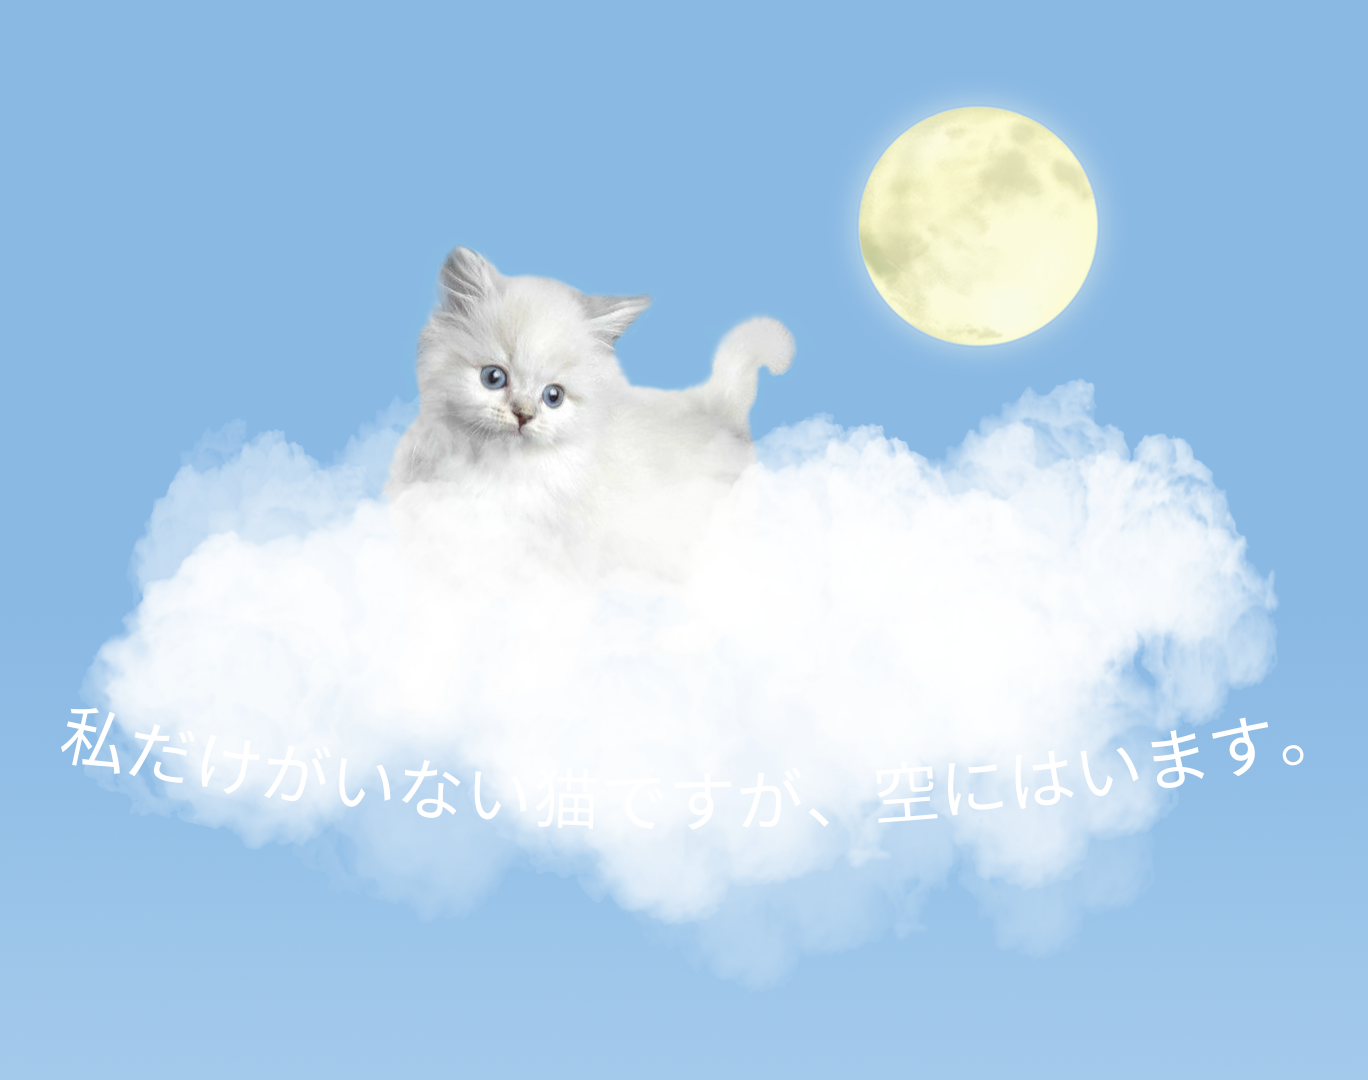
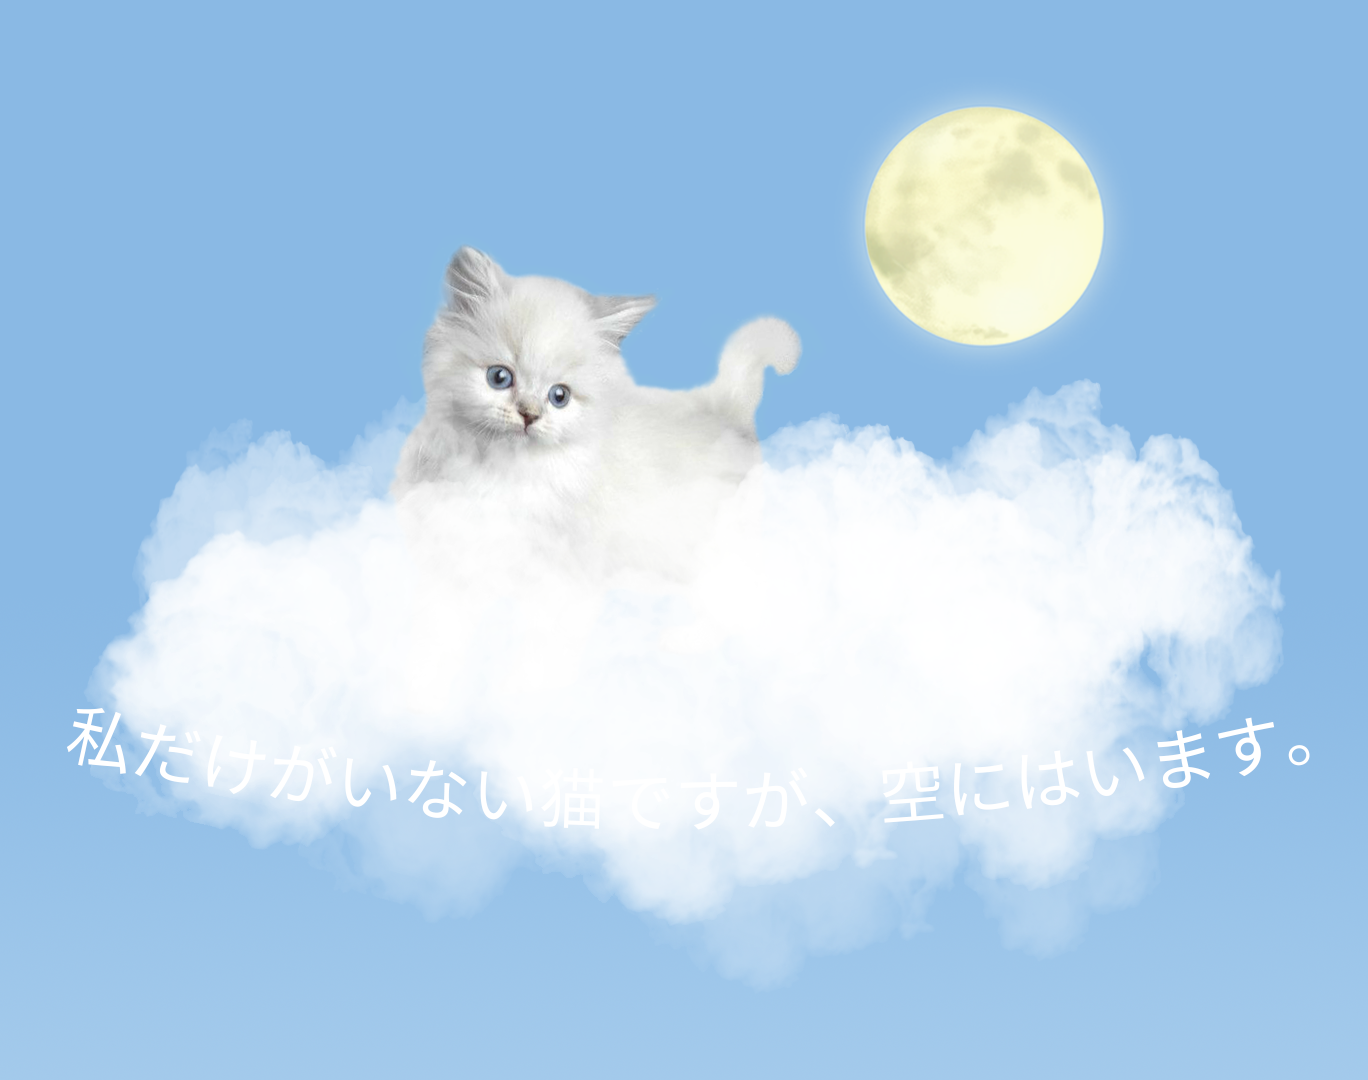
20220128 15:09
cat

diff --git a/skymoon.html b/skymoon.html
@@ -6,7 +6,7 @@
     <meta name="viewport" content="width=device-width, initial-scale=1.0">
     <link rel="preconnect" href="https://fonts.googleapis.com">
     <link rel="preconnect" href="https://fonts.gstatic.com" crossorigin>
-    <link href="https://fonts.googleapis.com/css2?family=Assistant:wght@200;300;400&display=swap" rel="stylesheet">
+    <link href="https://fonts.googleapis.com/css2?family=Jua&display=swap" rel="stylesheet">
     <link rel="stylesheet" href="skymoon.css">
     <title>Document</title>
 </head>
@@ -14,7 +14,7 @@
     
     <header>
         <div class="logo">
-            <p><a href="index.html">Cat</a></p>
+            <p><a href="index.html">C a t</a></p>
         </div>
         <div class="menu">
             <p>
@@ -26,6 +26,7 @@
         </div>
     </header>
 
+    <div class="skymoonbg">
     <div class="catimg">
         <p>
             <img src="img/skymoon.png">
@@ -35,6 +36,7 @@
             <img src="img/skymoon5.png">
             <img src="img/skymoon6.png">
         </p>
+    </div>
     </div>
 
 </body>

diff --git a/index.html b/index.html
@@ -6,14 +6,14 @@
     <meta name="viewport" content="width=device-width, initial-scale=1.0">
     <link rel="preconnect" href="https://fonts.googleapis.com">
     <link rel="preconnect" href="https://fonts.gstatic.com" crossorigin>
-    <link href="https://fonts.googleapis.com/css2?family=Assistant:wght@200;300;400&display=swap" rel="stylesheet">
+    <link href="https://fonts.googleapis.com/css2?family=Jua&display=swap" rel="stylesheet">
     <link rel="stylesheet" href="likeit.css">
     <title>Document</title>
 </head>
 <body>
     <header>
         <div class="logo">
-            <p><a href="index.html">Cat</a></p>
+            <p><a href="index.html">C a t</a></p>
         </div>
         <div class="menu">
             <p>

diff --git a/skymoon.css b/skymoon.css
@@ -1,5 +1,5 @@
 *{
-    font-family: 'Assistant', sans-serif;
+    font-family: 'Jua', sans-serif;
     font-size: 18px;
     padding: 0;
     margin: 0;
@@ -45,6 +45,7 @@ header .menu p a{
 
 .catimg p img{
     width: 100%;
+    box-sizing: border-box;
 }
 
 .catimg p img:nth-child(1){
@@ -56,6 +57,11 @@ header .menu p a{
 .catimg p img:nth-child(5),
 .catimg p img:nth-child(6){
     display: none;
+}
+
+.skymoonbg{
+    background-color: #a2c9eb;
+    height: 100vh;
 }
 
 @media (max-width: 1100px){

diff --git a/likeit.css b/likeit.css
@@ -1,5 +1,5 @@
 *{
-    font-family: 'Assistant', sans-serif;
+    font-family: 'Jua', sans-serif;
     font-size: 18px;
     padding: 0;
     margin: 0;
